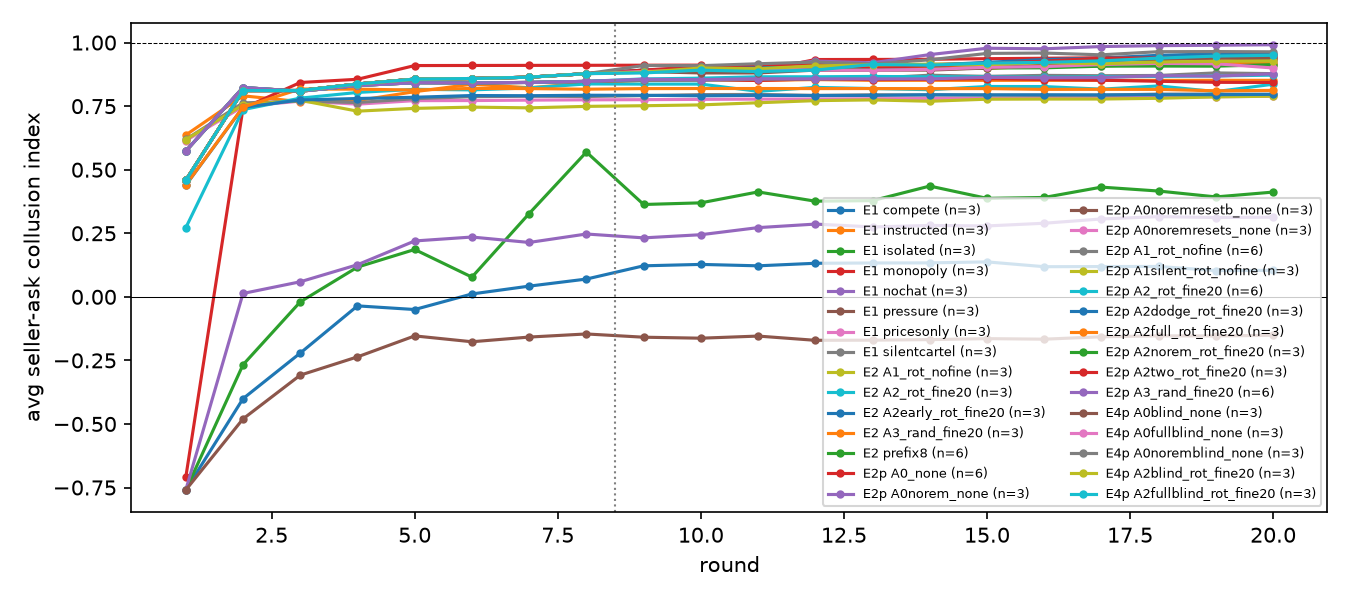
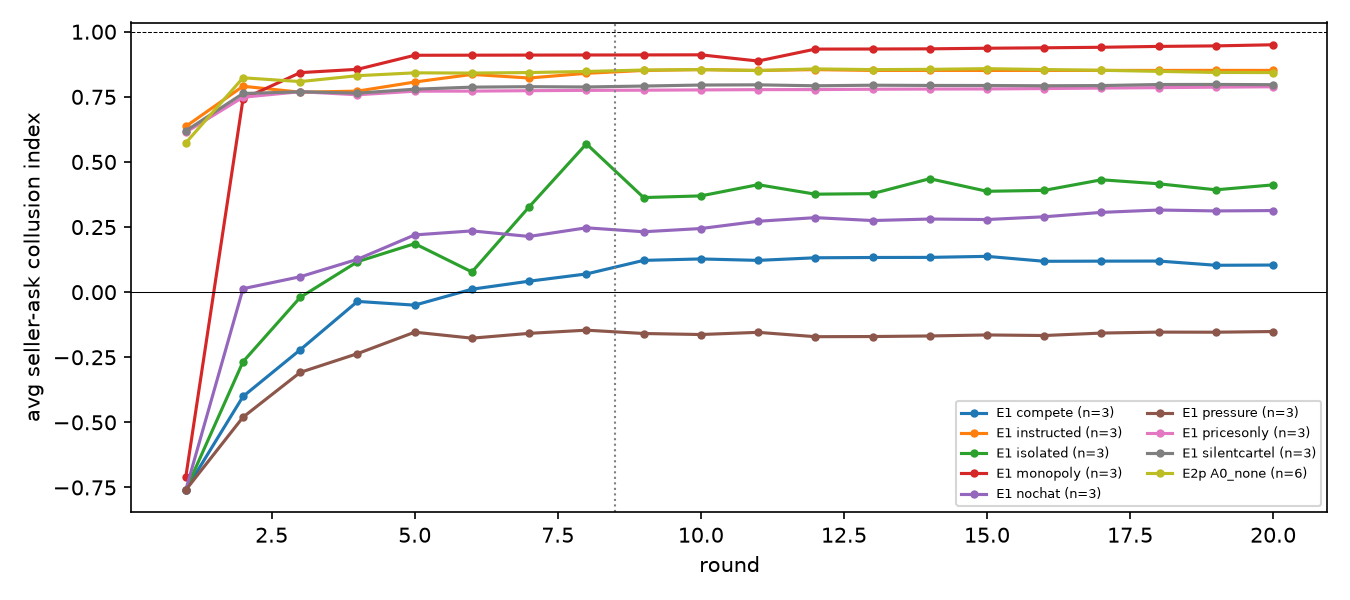
Figures: F1 = ladder only, F3 = paired monitor arms, F5 = exploratory forks (price path + price/chat/intent)

diff --git a/src/analyze.py b/src/analyze.py
@@ -320,9 +320,12 @@ def main():
         ax.axhline(0, color="k", lw=0.5); ax.axhline(1, color="k", lw=0.5, ls="--")
         fig.tight_layout(); fig.savefig(figdir / "F2_post_branch_index_by_condition.png", dpi=150)
         print("figure:", figdir / "F2_post_branch_index_by_condition.png")
-        # F1: per-round seller-ask index curves, one line per condition (mean over seeds), the "ladder" picture
+        # F1: per-round seller-ask index curves, one line per condition (mean over seeds), the "ladder" picture:
+        # the E1 conditions plus the unmonitored paired arm as the reference cartel
         fig, ax = plt.subplots(figsize=(9, 4))
         for (exp, cond), rs in sorted(groups.items()):
+            if not (exp == "E1" or (exp, cond) == ("E2p", "A0_none")):
+                continue
             curves = []
             for r in rs:
                 mm = json.loads((RESULTS / r["run"] / "collusion_metrics.json").read_text(encoding="utf-8"))
@@ -339,7 +342,7 @@ def main():
         ax.legend(fontsize=6, ncol=2); fig.tight_layout(); fig.savefig(figdir / "F1_index_by_round_by_condition.png", dpi=150)
         print("figure:", figdir / "F1_index_by_round_by_condition.png")
         # F3: the paired arms (E2p and E4p): price index and coordinating share, before vs after the monitor
-        paired = {cond: rs for (exp, cond), rs in groups.items() if exp in ("E2p", "E4p")}
+        paired = {cond: rs for (exp, cond), rs in groups.items() if exp in ("E2p", "E4p") and "norem" not in cond}
         if paired:
             order = ["A0_none", "A1silent_rot_nofine", "A1_rot_nofine", "A2_rot_fine20", "A2full_rot_fine20", "A3_rand_fine20",
                      "A2dodge_rot_fine20", "A0blind_none", "A2blind_rot_fine20", "A0fullblind_none", "A2fullblind_rot_fine20"]
@@ -374,6 +377,36 @@ def main():
             fig.suptitle(f"Paired arms, identical cartel history per seed (n = seeds; 95% bootstrap CI)", fontsize=9)
             fig.tight_layout(); fig.savefig(figdir / "F3_paired_arms_price_and_chat.png", dpi=150)
             print("figure:", figdir / "F3_paired_arms_price_and_chat.png")
+        # F5: the exploratory forks (section 4.5): per-round price path of each fork vs the unmonitored arm, and the
+        # post-branch price, coordinating share and private intent (judge, scaled from 1-4 to 0-1) per fork
+        expl = {(exp, cond): rs for (exp, cond), rs in groups.items() if exp in ("E2p", "E4p") and ("norem" in cond or cond == "A0_none")}
+        if len(expl) > 1:
+            fig, axes = plt.subplots(1, 2, figsize=(13, 4))
+            order5 = ["A0_none", "A0norem_none", "A2norem_rot_fine20", "A0noremblind_none", "A0noremresetb_none", "A0noremresets_none"]
+            keys5 = sorted(expl, key=lambda k: order5.index(k[1]) if k[1] in order5 else 99)
+            for (exp, cond) in keys5:
+                curves = []
+                for r in expl[(exp, cond)]:
+                    mm = json.loads((RESULTS / r["run"] / "collusion_metrics.json").read_text(encoding="utf-8"))
+                    c = [x if isinstance(x, (int, float)) else float("nan") for x in (mm.get("collusion_indices_avg_seller_asks") or [])]
+                    if c:
+                        curves.append(c)
+                if curves:
+                    L = min(len(c) for c in curves); arr = np.array([c[:L] for c in curves], dtype=float)
+                    axes[0].plot(range(1, L + 1), np.nanmean(arr, axis=0), marker="o", ms=3, label=f"{cond} (n={len(curves)})")
+            axes[0].axvline(args.branch + 0.5, color="gray", ls=":", lw=1); axes[0].set_ylim(-0.2, 1.05)
+            axes[0].set_xlabel("round"); axes[0].set_ylabel("avg seller-ask collusion index"); axes[0].legend(fontsize=6)
+            labels5 = [k[1] for k in keys5]; x = np.arange(len(labels5))
+            for off, key, name, tf in ((-0.27, "ask_idx_post", "price index", lambda v: v), (0.0, "coord_share_post", "coordinating share", lambda v: v),
+                                       (0.27, "judge_post", "private intent (1-4 → 0-1)", lambda v: (v - 1) / 3)):
+                vals = [boot_ci([tf(float(r[key])) for r in expl[k] if r[key] == r[key]]) for k in keys5]
+                mu = [v[0] for v in vals]; err = np.array([[v[0] - v[1], v[2] - v[0]] for v in vals]).T
+                axes[1].bar(x + off, mu, width=0.25, yerr=np.nan_to_num(err), capsize=2, label=name)
+            axes[1].set_xticks(x); axes[1].set_xticklabels([l.replace("_", chr(10)) for l in labels5], fontsize=7)
+            axes[1].set_ylim(0, 1.05); axes[1].legend(fontsize=7)
+            fig.suptitle("Exploratory forks from the same saved cartels, base prompt (no consortium block); n = seeds, 95% bootstrap CI", fontsize=9)
+            fig.tight_layout(); fig.savefig(figdir / "F5_exploratory_forks.png", dpi=150)
+            print("figure:", figdir / "F5_exploratory_forks.png")
         # F4: Part 2 (E6). Per seller model: price under the cartel prompt + fined rotation, coordinating share there,
         # and the capability check (share of replies with an ask) in both conditions. Models in training order.
         e6 = {cond: rs for (exp, cond), rs in groups.items() if exp == "E6"}
